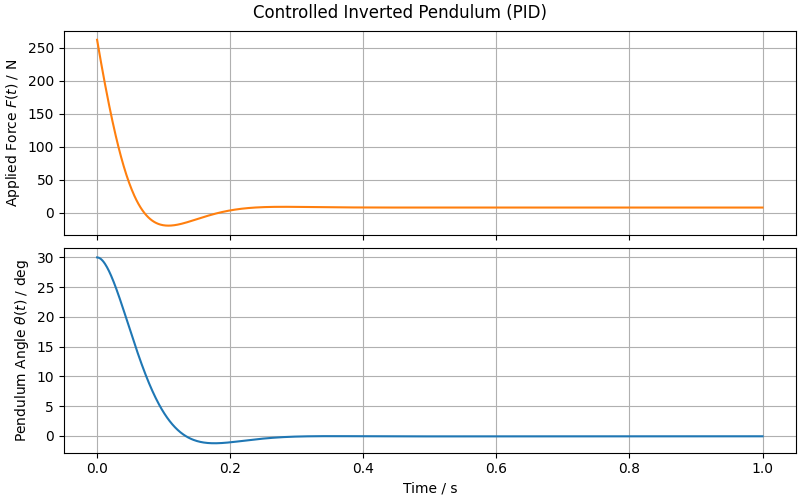
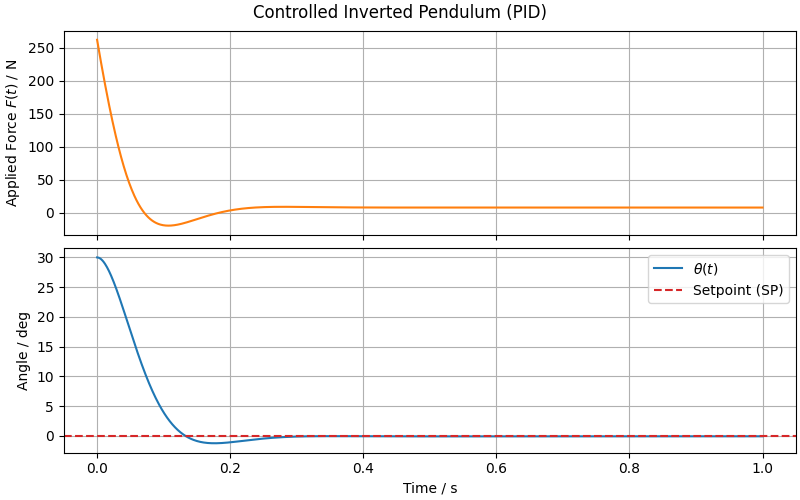
Enhance plot setpoint line on PID for pendulum

diff --git a/experiments/PID-control-inverted-pendulum/sim_scipy.py b/experiments/PID-control-inverted-pendulum/sim_scipy.py
@@ -113,9 +113,11 @@ axs[0].set_ylabel("Applied Force $F(t)$ / N")
 axs[0].grid(True)
 
 # Pendulum angle
-axs[1].plot(sol.t, theta, color="tab:blue")
-axs[1].set_ylabel("Pendulum Angle $\\theta(t)$ / deg")
+axs[1].plot(sol.t, theta, color="tab:blue", label="$\\theta(t)$")
+axs[1].axhline(np.rad2deg(SP), color="tab:red", linestyle="--", label="Setpoint (SP)")
+axs[1].set_ylabel("Angle / deg")
 axs[1].grid(True)
+axs[1].legend()
 
 axs[-1].set_xlabel("Time / s")
 
